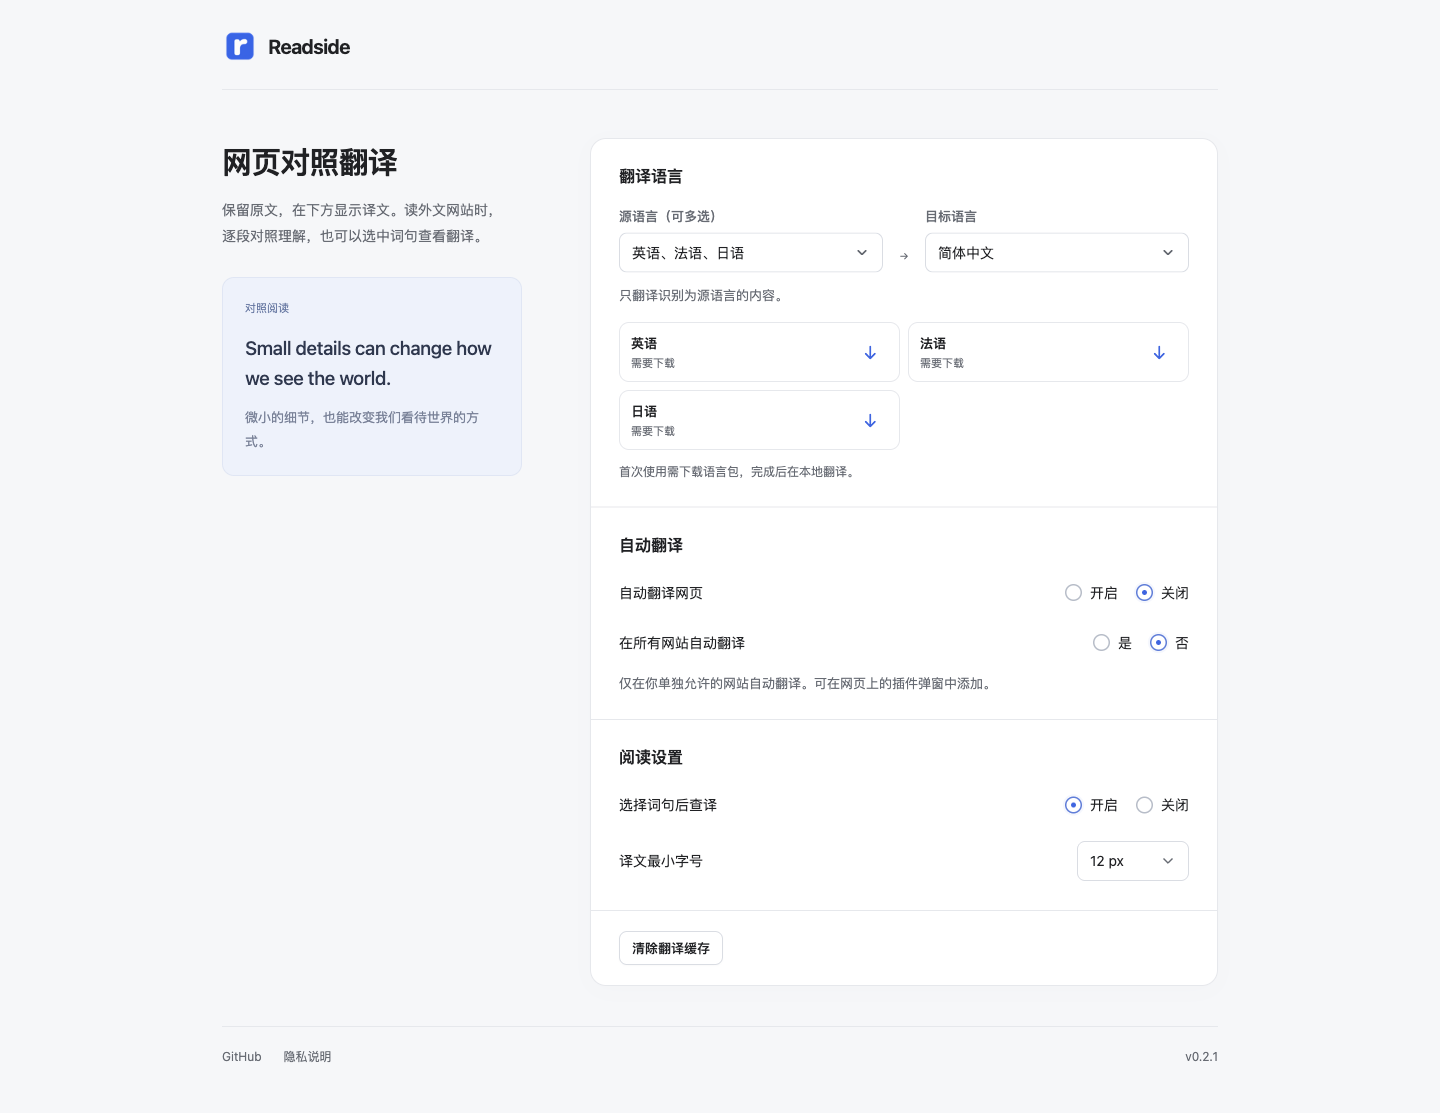
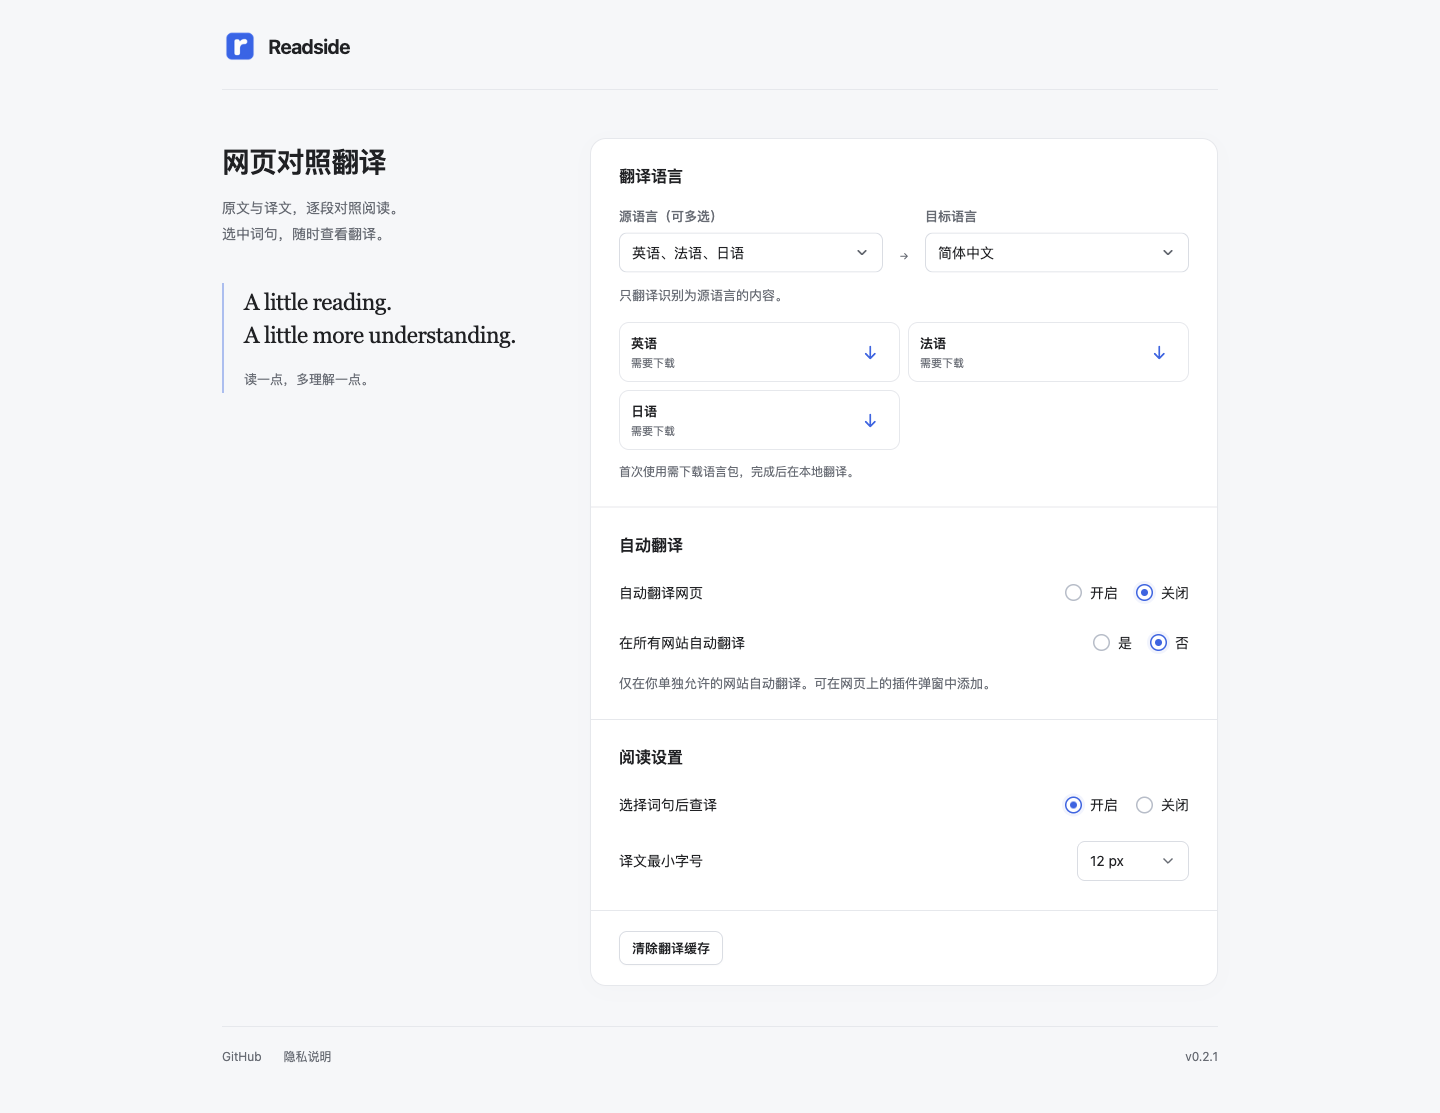
Refine settings introduction with minimal reading typography

Changed region(s): [[0.1562, 0.2444, 0.3438, 0.3971], [0.1562, 0.1222, 0.3438, 0.2138]]

diff --git a/src/ui/ui.css b/src/ui/ui.css
@@ -5,7 +5,7 @@
 .button{display:inline-flex;align-items:center;justify-content:center;gap:8px;min-height:40px;padding:9px 16px;border-radius:8px;font-size:14px;font-weight:550;line-height:20px;transition:background .12s,border-color .12s;border:1px solid transparent}.button.primary{background:var(--primary);color:var(--primary-ink);box-shadow:0 1px 2px #00000012}.button.primary:hover:not(:disabled){background:#41454e}.button.secondary{background:var(--surface);border-color:#d9dde4;box-shadow:0 1px 2px #00000005}.button.secondary:hover:not(:disabled){background:var(--hover);border-color:#bfc5cf}.button.small{min-height:34px;padding:6px 12px;font-size:13px;font-weight:500}.button.full{width:100%;margin-top:10px}.field-label{display:block;margin-bottom:7px;color:var(--muted);font-size:13px;font-weight:450}.language-arrow{color:var(--muted);padding-bottom:9px;text-align:center}.helper{font-size:13px;line-height:1.65;color:var(--muted);margin-top:12px}.message{font-size:13px;line-height:1.6;color:var(--ink);padding:10px 12px;background:var(--hover);border:1px solid var(--line);border-radius:8px;margin-top:14px}.message.error{color:var(--error)}
 .choice-row{border:0;padding:0;margin:0;min-width:0;display:flex;align-items:center;justify-content:space-between;gap:16px}.choice-row legend{float:left;font-size:14px;line-height:24px;padding:0}.radio-options{display:flex;align-items:center;gap:18px}.radio-options label{display:flex;align-items:center;gap:7px;min-height:36px;cursor:pointer;white-space:nowrap;font-size:14px}.choice-row:disabled{opacity:.55}.setting-line{display:flex;align-items:center;justify-content:space-between;gap:20px;min-height:48px;font-size:14px}.page-status{display:flex;align-items:center;gap:8px;color:var(--muted);font-size:13px;line-height:1.6}.status-dot{width:6px;height:6px;display:inline-block;flex:none;border-radius:50%;background:#9298a3}.page-status[data-state=needs-download],.page-status[data-state=unsupported]{color:var(--error)}
 .popup{width:352px;padding:20px;background:var(--surface)}.popup-head{display:flex;align-items:center;justify-content:space-between;margin-bottom:18px}.popup .page-status{padding:0 0 17px;border-bottom:1px solid var(--line)}.popup .automatic-choice{padding-top:13px}.popup #retry{margin-top:10px}.language-row{display:grid;grid-template-columns:minmax(0,1fr) 16px minmax(0,1fr);align-items:end;gap:10px;padding:17px 0 20px}.page-actions{display:grid;grid-template-columns:1.2fr 1fr;gap:10px}.popup .selection-choice{margin-top:18px;padding-top:12px;border-top:1px solid var(--line)}
-.options{min-height:100vh}.options-shell{max-width:1080px;margin:0 auto;padding:28px 42px}.options-head{display:flex;align-items:center;justify-content:space-between;padding-bottom:25px;border-bottom:1px solid var(--line)}.options-main{display:grid;grid-template-columns:300px minmax(0,1fr);gap:68px;align-items:start;padding:48px 0 40px}.introduction{position:sticky;top:32px;padding-top:4px}.introduction h1{font-size:30px;line-height:1.3;font-weight:650;letter-spacing:-.85px}.intro-copy{font-size:14px;color:var(--muted);line-height:1.85;margin-top:16px;max-width:285px}.reading-scene{margin-top:28px;padding:22px;border:1px solid #dfe6f5;border-radius:12px;background:#edf2fc}.sample-caption{display:block;font-size:11px;color:#657ba7;margin-bottom:16px}.sample-original{font-size:19px;line-height:1.6;font-weight:500;letter-spacing:-.3px;color:#2d3850}.sample-translation{font-size:13px;color:#77829a;line-height:1.85;margin-top:12px}
+.options{min-height:100vh}.options-shell{max-width:1080px;margin:0 auto;padding:28px 42px}.options-head{display:flex;align-items:center;justify-content:space-between;padding-bottom:25px;border-bottom:1px solid var(--line)}.options-main{display:grid;grid-template-columns:300px minmax(0,1fr);gap:68px;align-items:start;padding:48px 0 40px}.introduction{position:sticky;top:32px;padding-top:4px}.introduction h1{font-size:28px;line-height:1.4;font-weight:600;letter-spacing:-.7px}.intro-copy{font-size:14px;color:var(--muted);line-height:1.85;margin-top:14px;max-width:280px}.reading-scene{margin-top:36px;padding:2px 0 2px 20px;border-left:2px solid #a8bff3}.sample-original{font-family:Georgia,"Times New Roman",serif;font-size:23px;line-height:1.45;font-weight:400;letter-spacing:-.55px;color:var(--ink)}.sample-translation{font-size:13px;color:var(--muted);line-height:1.8;margin-top:16px}
 .preferences{background:var(--surface);border:1px solid var(--line);border-radius:16px;box-shadow:0 4px 24px #10182804;overflow:hidden}.setting-section{padding:25px 28px;border-bottom:1px solid var(--line)}.setting-section h2{font-size:16px;font-weight:600;line-height:24px;margin-bottom:18px}.options-language{display:grid;grid-template-columns:minmax(0,1fr) 18px minmax(0,1fr);gap:12px;align-items:end}.engine-state{color:var(--muted);font-size:12px;line-height:1.65;margin-top:12px}.preferences .choice-row+.choice-row{margin-top:14px}.preferences .setting-line{margin-top:14px}.settings-bottom{padding:20px 28px}.rules-list{font-size:13px;line-height:1.7}.rule-item{display:grid;grid-template-columns:minmax(0,1fr) auto;gap:12px;align-items:center;padding:9px 0}.rule-name{overflow-wrap:anywhere}.rule-name small{display:block;color:var(--muted);font-size:12px}.options-footer{display:flex;align-items:center;justify-content:space-between;border-top:1px solid var(--line);padding:20px 0;color:var(--muted);font-size:12px}.options-footer>div{display:flex;gap:22px}
 @media(prefers-reduced-motion:reduce){*,*::before,*::after{animation:none!important;transition:none!important}}@media(max-width:800px){.options-shell{padding:22px}.options-main{grid-template-columns:1fr;gap:28px;padding:30px 0}.intro-copy{max-width:100%;margin-top:10px}.reading-scene{display:none}.introduction{position:static}.setting-section{padding:23px}.settings-bottom{padding:20px 23px}.introduction h1{font-size:24px}}@media(max-width:430px){.options .choice-row{display:block}.options .choice-row legend{float:none;margin-bottom:5px}.options-language{gap:7px}.options-shell{padding:18px}}
 @media(prefers-color-scheme:dark){:root{--bg:#18191c;--surface:#222428;--ink:#eeeef0;--muted:#a4a9b3;--line:#363941;--primary:#ebedf2;--primary-ink:#202228;--accent:#82a5ff;--hover:#2c2f35;--error:#ffa39b}.button.secondary{border-color:#4b505b}.button.primary:hover:not(:disabled){background:#fff}.button.secondary:hover:not(:disabled){border-color:#727a89}.preferences{box-shadow:none}}
@@ -27,4 +27,4 @@
 @media(max-width:400px){.options .language-packs{grid-template-columns:1fr 1fr}.pack-card{padding:8px}}
 @media(prefers-reduced-motion:reduce){.pack-circle.indeterminate{animation:none}.circle-fill{transition:none}}
 
-@media(prefers-color-scheme:dark){.reading-scene{background:#232e43;border-color:#34425d}.sample-caption{color:#94acd7}.sample-original{color:#e4ebf8}.sample-translation{color:#acbad1}}
+@media(prefers-color-scheme:dark){.reading-scene{border-color:#526d9d}}

diff --git a/src/ui/options.html b/src/ui/options.html
@@ -7,11 +7,10 @@
     <main class="options-main">
       <aside class="introduction">
         <h1>网页对照翻译</h1>
-        <p class="intro-copy">保留原文，在下方显示译文。读外文网站时，逐段对照理解，也可以选中词句查看翻译。</p>
+        <p class="intro-copy">原文与译文，逐段对照阅读。<br>选中词句，随时查看翻译。</p>
         <div class="reading-scene" aria-label="对照阅读示例">
-          <span class="sample-caption">对照阅读</span>
-          <p class="sample-original" lang="en">Small details can change how we see the world.</p>
-          <p class="sample-translation" lang="zh-CN">微小的细节，也能改变我们看待世界的方式。</p>
+          <p class="sample-original" lang="en">A little reading.<br>A little more understanding.</p>
+          <p class="sample-translation" lang="zh-CN">读一点，多理解一点。</p>
         </div>
       </aside>
       <div class="preferences" aria-label="阅读设置">
